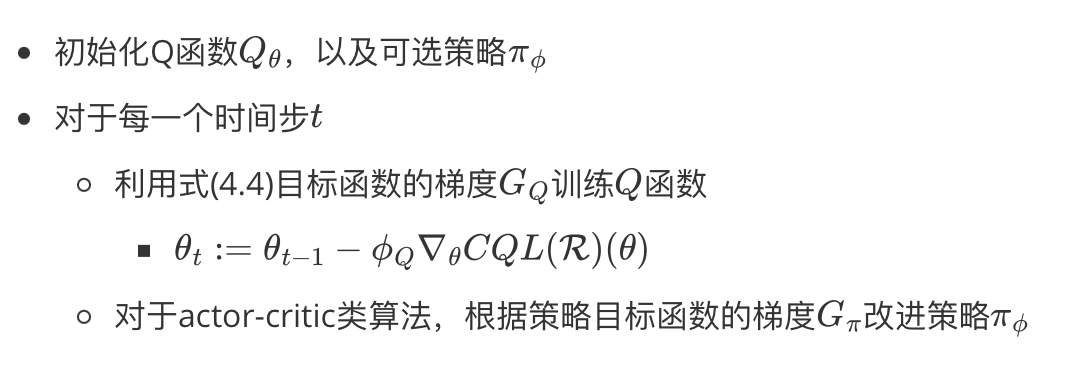
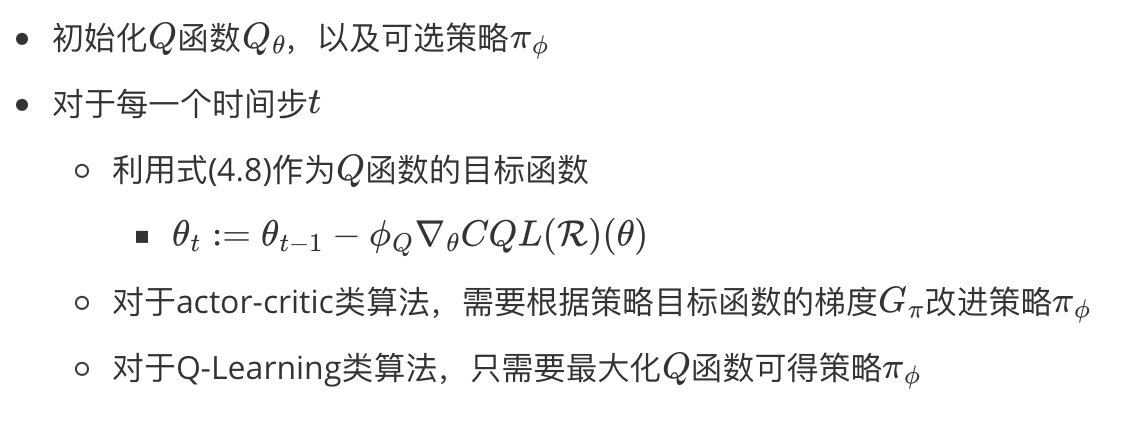
adding content 20231221 v6

Changed region(s): [[0.0, 0.0291, 0.6685, 0.582], [0.0608, 0.6111, 0.9724, 0.7275], [0.0608, 0.7857, 0.942, 0.873]]

diff --git a/docs/Offline_RL/ch4/ch4.md b/docs/Offline_RL/ch4/ch4.md
@@ -54,7 +54,7 @@ $$
 
 
 
-### Conservative Q-Learning
+### Conservative Q-Learning算法
 
 根据文献[1]，可知，求解式(4.6)可得策略$\pi$价值的下界。若利用式(4.6)作为策略的评估可得$\hat{Q}^{\pi}$，然后再提升策略，不断交替迭代以上两个步骤，那么就可得$V^{\pi}$的下界。或者利用式(4.6)作为策略评估可得$\hat{Q}^{\pi}$，再最大化$\hat{Q}^{\pi}$获得策略$\pi$，不断迭代也能得到策略价值的下界。然而，以上两种方式均是线上学习，分别是actor-critic和q-learning。
 
@@ -66,23 +66,23 @@ $$
 $$
 式(4.7)中$\mathcal{R}(\mu)$为正则化器。
 
-**CQL的变体：** 若利用KL-Divergence度量先验分布$\rho(a\vert s)$与策略$\mu$之间距离作为正则化器$\mathcal{R}(\mu)$，那么$CQL(\mathcal{R})$可被实例化为式(4.8)
+**CQL的变体：** 若利用KL-Divergence度量先验分布$\rho(a\vert s)$与策略$\mu$之间距离作为正则化器$\mathcal{R}(\mu)$，且先验分布为均匀分布，那么$CQL(\mathcal{R})$可被实例化为式(4.8)。
 $$
 \begin{equation}
 \underset{Q}{min}\quad\alpha\mathbb{E}\_{s\sim\mathcal{D}}[log\sum_a exp(Q(s,a))-\mathbb{E}\_{a\sim\hat{\pi}\_{\beta}(a\vert s)}[Q(s,a)]]+\frac{1}{2}\mathbb{E}\_{s,a,{s}'\sim\mathcal{D}}[(Q-\hat{\mathcal{B}}^{\pi\_k}\hat{Q}^k)^2]\tag{4.8}
 \end{equation}
 $$
 
-
+若先验分布为之前策略$\hat{\pi}^{k-1}$，那么式(4.8)中第一项应该被替换为策略$\hat{\pi}^{k-1}(a\vert s)$下Q值的指数权重平均。
 
 
 <div align="center">
   <img src="./img/CQL.png" width=600 />
 </div>
-
 <div align="center">
-  图4.1 CQL算法伪代码
+  图4.1 CQL算法两种变体的伪代码
 </div>
+
 
 
 
